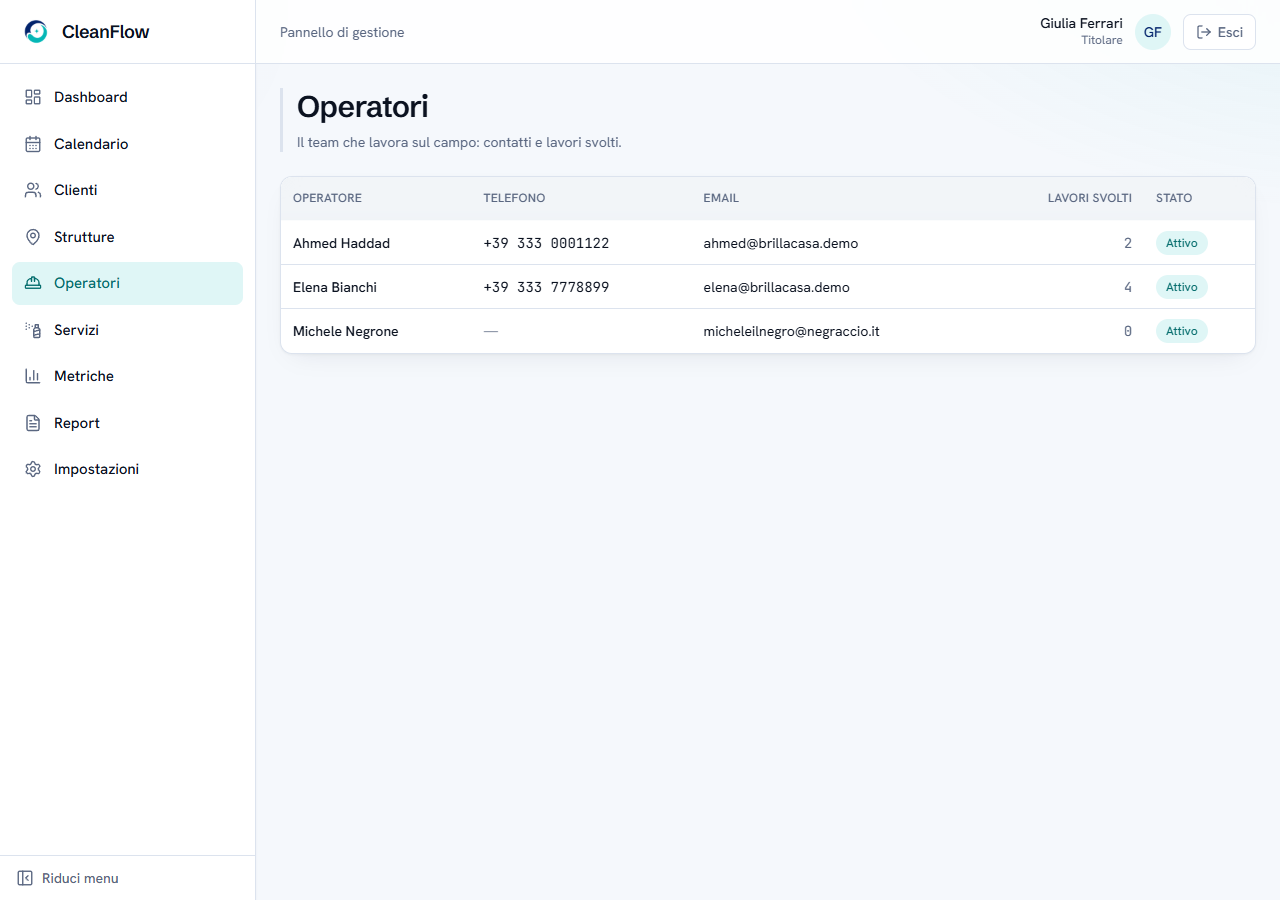
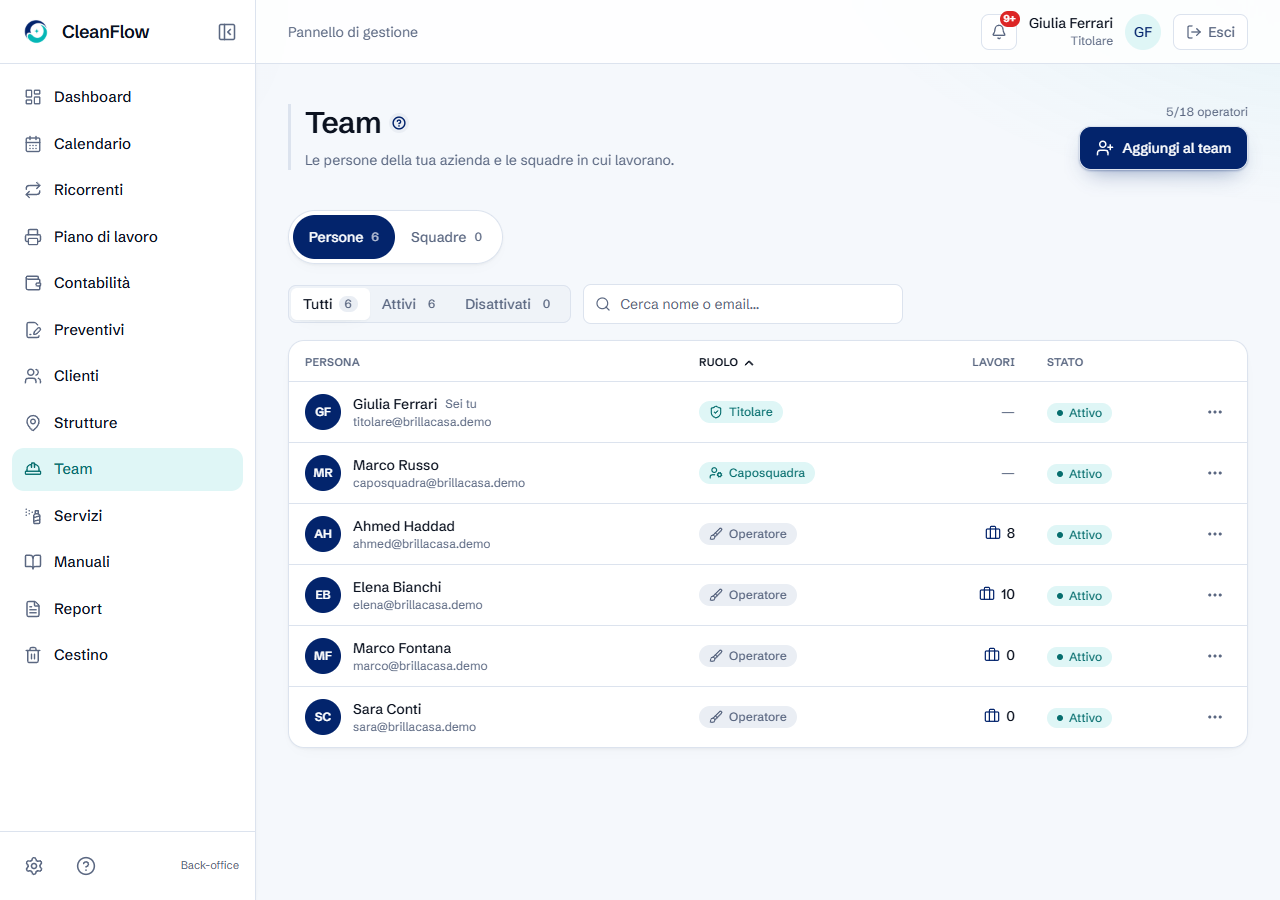
Screenshot del prodotto: Team rifatta senza la riga incriminata, versioni inglesi delle 5 schermate
- operatori.png (IT) ricatturata dall app attuale: la vecchia di giugno mostrava un operatore con nome ed email razzisti (dato demo inserito a mano, oggi non piu nel DB); email reali mascherate con dati demo
- Le 5 schermate delle pagine funzione hanno ora una versione -en.png: interfaccia tradotta nel DOM prima dello scatto, nomi/telefoni demo UK, importi in formato inglese; helper lib/product-shots.ts sceglie il file per lingua
- Il terzo operatore del widget italiano diventa Marco Fontana
- Registro aggiornato (Brief/I18N-EN.md)

diff --git a/app/[locale]/funzioni/entrate/page.tsx b/app/[locale]/funzioni/entrate/page.tsx
@@ -8,6 +8,7 @@ import {
   FeatureRow,
   Screenshot,
 } from "@/components/site/funzione-shell";
+import { productShot } from "@/lib/product-shots";
 import { alternatesFor, ensureLocale } from "@/lib/seo";
 
 type Props = { params: Promise<{ locale: string }> };
@@ -205,7 +206,7 @@ export default async function EntratePage({ params }: Props) {
       hero={
         <Screenshot aspect="aspect-[16/10]" tile="bg-tile-entrate">
           <Image
-            src="/product/metriche.png"
+            src={productShot(locale, "metriche")}
             alt={t("heroAlt")}
             fill
             sizes="(min-width: 1104px) 1040px, 100vw"
@@ -293,7 +294,7 @@ export default async function EntratePage({ params }: Props) {
           visual={
             <Screenshot aspect="aspect-[16/11]" tile="bg-secondary/60">
               <Image
-                src="/product/dashboard-2.png"
+                src={productShot(locale, "dashboard-2")}
                 alt={t("row6.dashAlt")}
                 fill
                 sizes="(min-width: 1104px) 600px, 100vw"

diff --git a/app/[locale]/funzioni/clienti/page.tsx b/app/[locale]/funzioni/clienti/page.tsx
@@ -8,6 +8,7 @@ import {
   FeatureRow,
   Screenshot,
 } from "@/components/site/funzione-shell";
+import { productShot } from "@/lib/product-shots";
 import { alternatesFor, ensureLocale } from "@/lib/seo";
 
 type Props = { params: Promise<{ locale: string }> };
@@ -131,7 +132,7 @@ export default async function ClientiPage({ params }: Props) {
       hero={
         <Screenshot aspect="aspect-[16/10]" tile="bg-tile-clienti">
           <Image
-            src="/product/clienti.png"
+            src={productShot(locale, "clienti")}
             alt={t("heroAlt")}
             fill
             sizes="(min-width: 1104px) 1040px, 100vw"

diff --git a/lib/product-shots.ts b/lib/product-shots.ts
@@ -1,0 +1,16 @@
+import type { Locale } from "@/i18n/routing";
+
+// Screenshot reali dell'app usati dalle pagine /funzioni/*. L'app è solo in
+// italiano: la versione inglese (`<nome>-en.png`) è lo stesso scatto con i
+// testi dell'interfaccia tradotti nel DOM prima della cattura. Nessuna persona
+// reale in nessuna delle due: nomi ed email sono quelli della demo.
+export type ProductShot =
+  | "operatori"
+  | "clienti"
+  | "metriche"
+  | "calendario"
+  | "dashboard-2";
+
+export function productShot(locale: Locale, key: ProductShot) {
+  return locale === "it" ? `/product/${key}.png` : `/product/${key}-en.png`;
+}

diff --git a/app/[locale]/funzioni/calendario/page.tsx b/app/[locale]/funzioni/calendario/page.tsx
@@ -8,6 +8,7 @@ import {
   FeatureRow,
   Screenshot,
 } from "@/components/site/funzione-shell";
+import { productShot } from "@/lib/product-shots";
 import { alternatesFor, ensureLocale } from "@/lib/seo";
 import { cn } from "@/lib/utils";
 
@@ -140,7 +141,7 @@ export default async function CalendarioPage({ params }: Props) {
       hero={
         <Screenshot aspect="aspect-[16/10]" tile="bg-tile-clienti">
           <Image
-            src="/product/calendario.png"
+            src={productShot(locale, "calendario")}
             alt={t("heroAlt")}
             fill
             sizes="(min-width: 1104px) 1040px, 100vw"

diff --git a/app/[locale]/funzioni/operatori/page.tsx b/app/[locale]/funzioni/operatori/page.tsx
@@ -9,6 +9,7 @@ import {
   FeatureRow,
   Screenshot,
 } from "@/components/site/funzione-shell";
+import { productShot } from "@/lib/product-shots";
 import { alternatesFor, ensureLocale } from "@/lib/seo";
 import { cn } from "@/lib/utils";
 
@@ -222,7 +223,7 @@ export default async function OperatoriPage({ params }: Props) {
       hero={
         <Screenshot aspect="aspect-[16/9]" tile="bg-tile-operatori">
           <Image
-            src="/product/operatori.png"
+            src={productShot(locale, "operatori")}
             alt={t("heroAlt")}
             fill
             sizes="(min-width: 1104px) 1040px, 100vw"

diff --git a/Brief/I18N-EN.md b/Brief/I18N-EN.md
@@ -36,6 +36,15 @@
   viene chiamata da Next senza `locale` e andava in 500. Immagine per lingua.
 - **Tipizzazione**: `global.d.ts` collega `messages/it.json` a next-intl, così
   un refuso in una chiave è un errore di compilazione.
+- **Screenshot del prodotto** (`public/product/*.png`, helper `lib/product-shots.ts`):
+  la versione inglese usa `<nome>-en.png`, scatti dell'app vera (account demo
+  BrillaCasa, 09/09/2026) con i testi dell'interfaccia tradotti nel DOM e i
+  numeri in formato inglese. In ENTRAMBE le lingue nomi ed email sono demo:
+  la `operatori.png` di giugno conteneva una riga con nome/email razzisti (dato
+  inserito a mano nella demo, oggi non più nel DB) ed è stata rifatta; le altre
+  quattro italiane restano quelle di giugno (dati più ricchi, nessun problema).
+  Nota: a settembre la demo è quasi vuota (0 lavori oggi, «Richiede attenzione
+  35»): le schermate inglesi lo mostrano. Da rifare dopo un re-seed della demo.
 
 ## Checklist (1:1)
 
